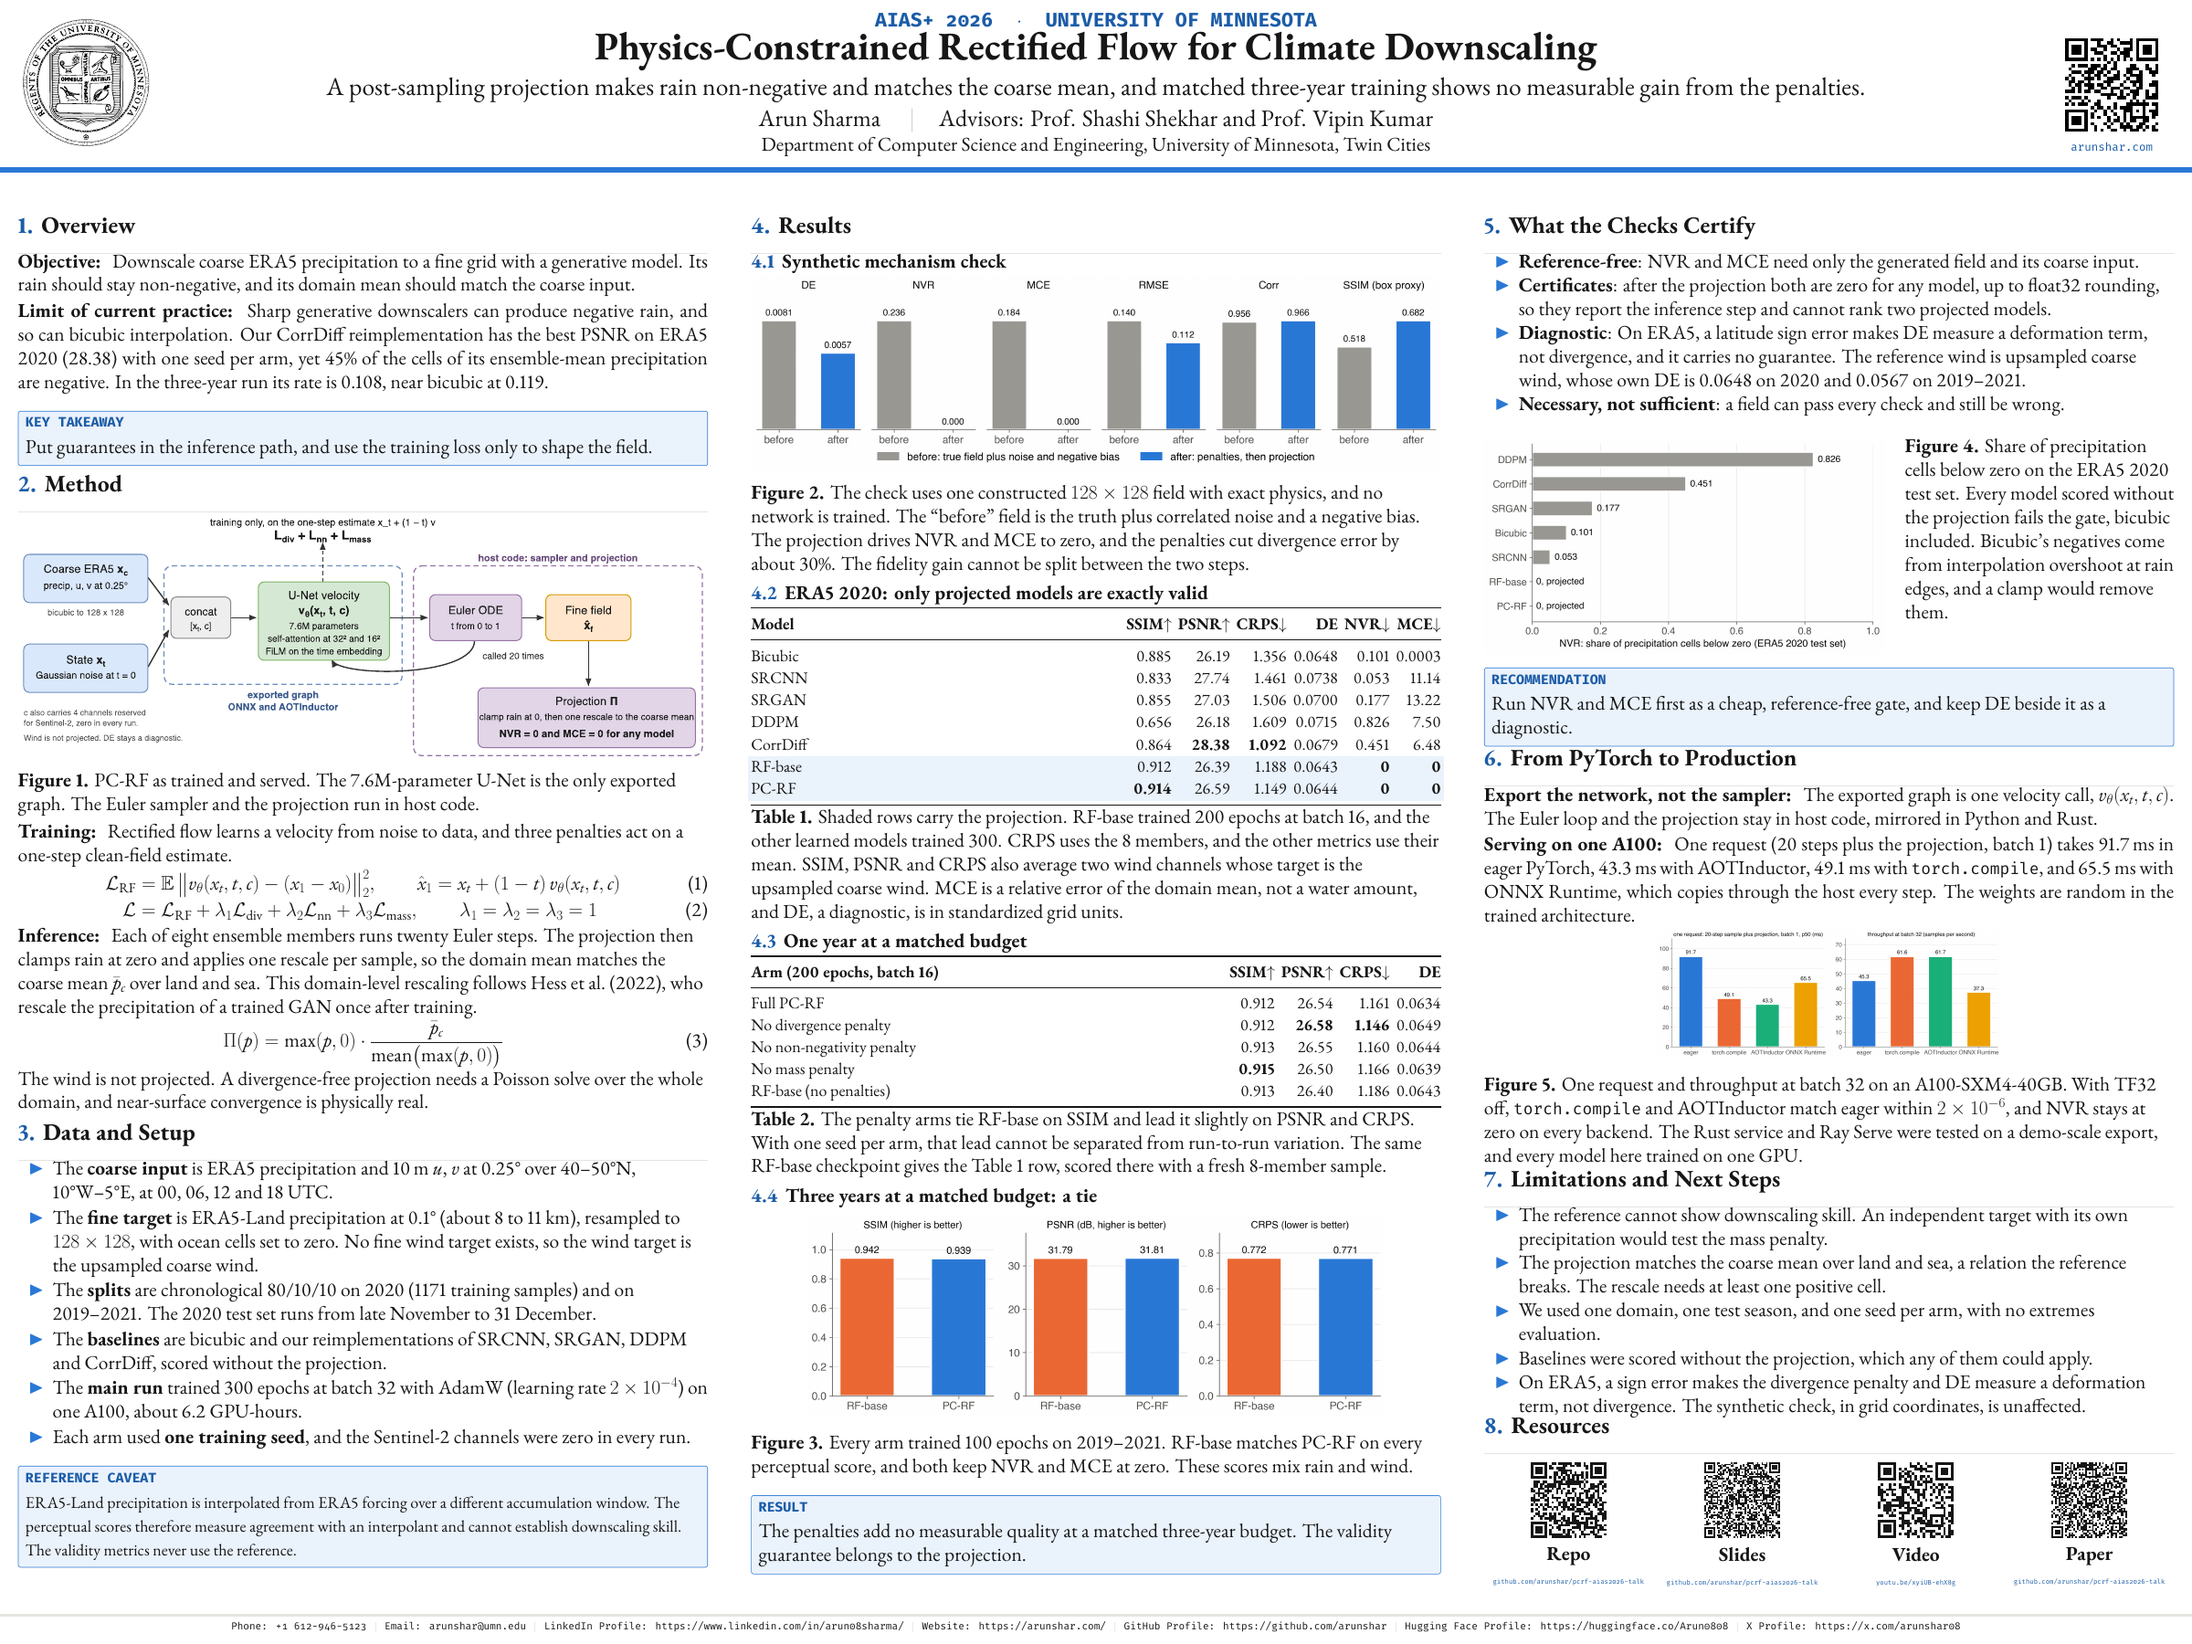
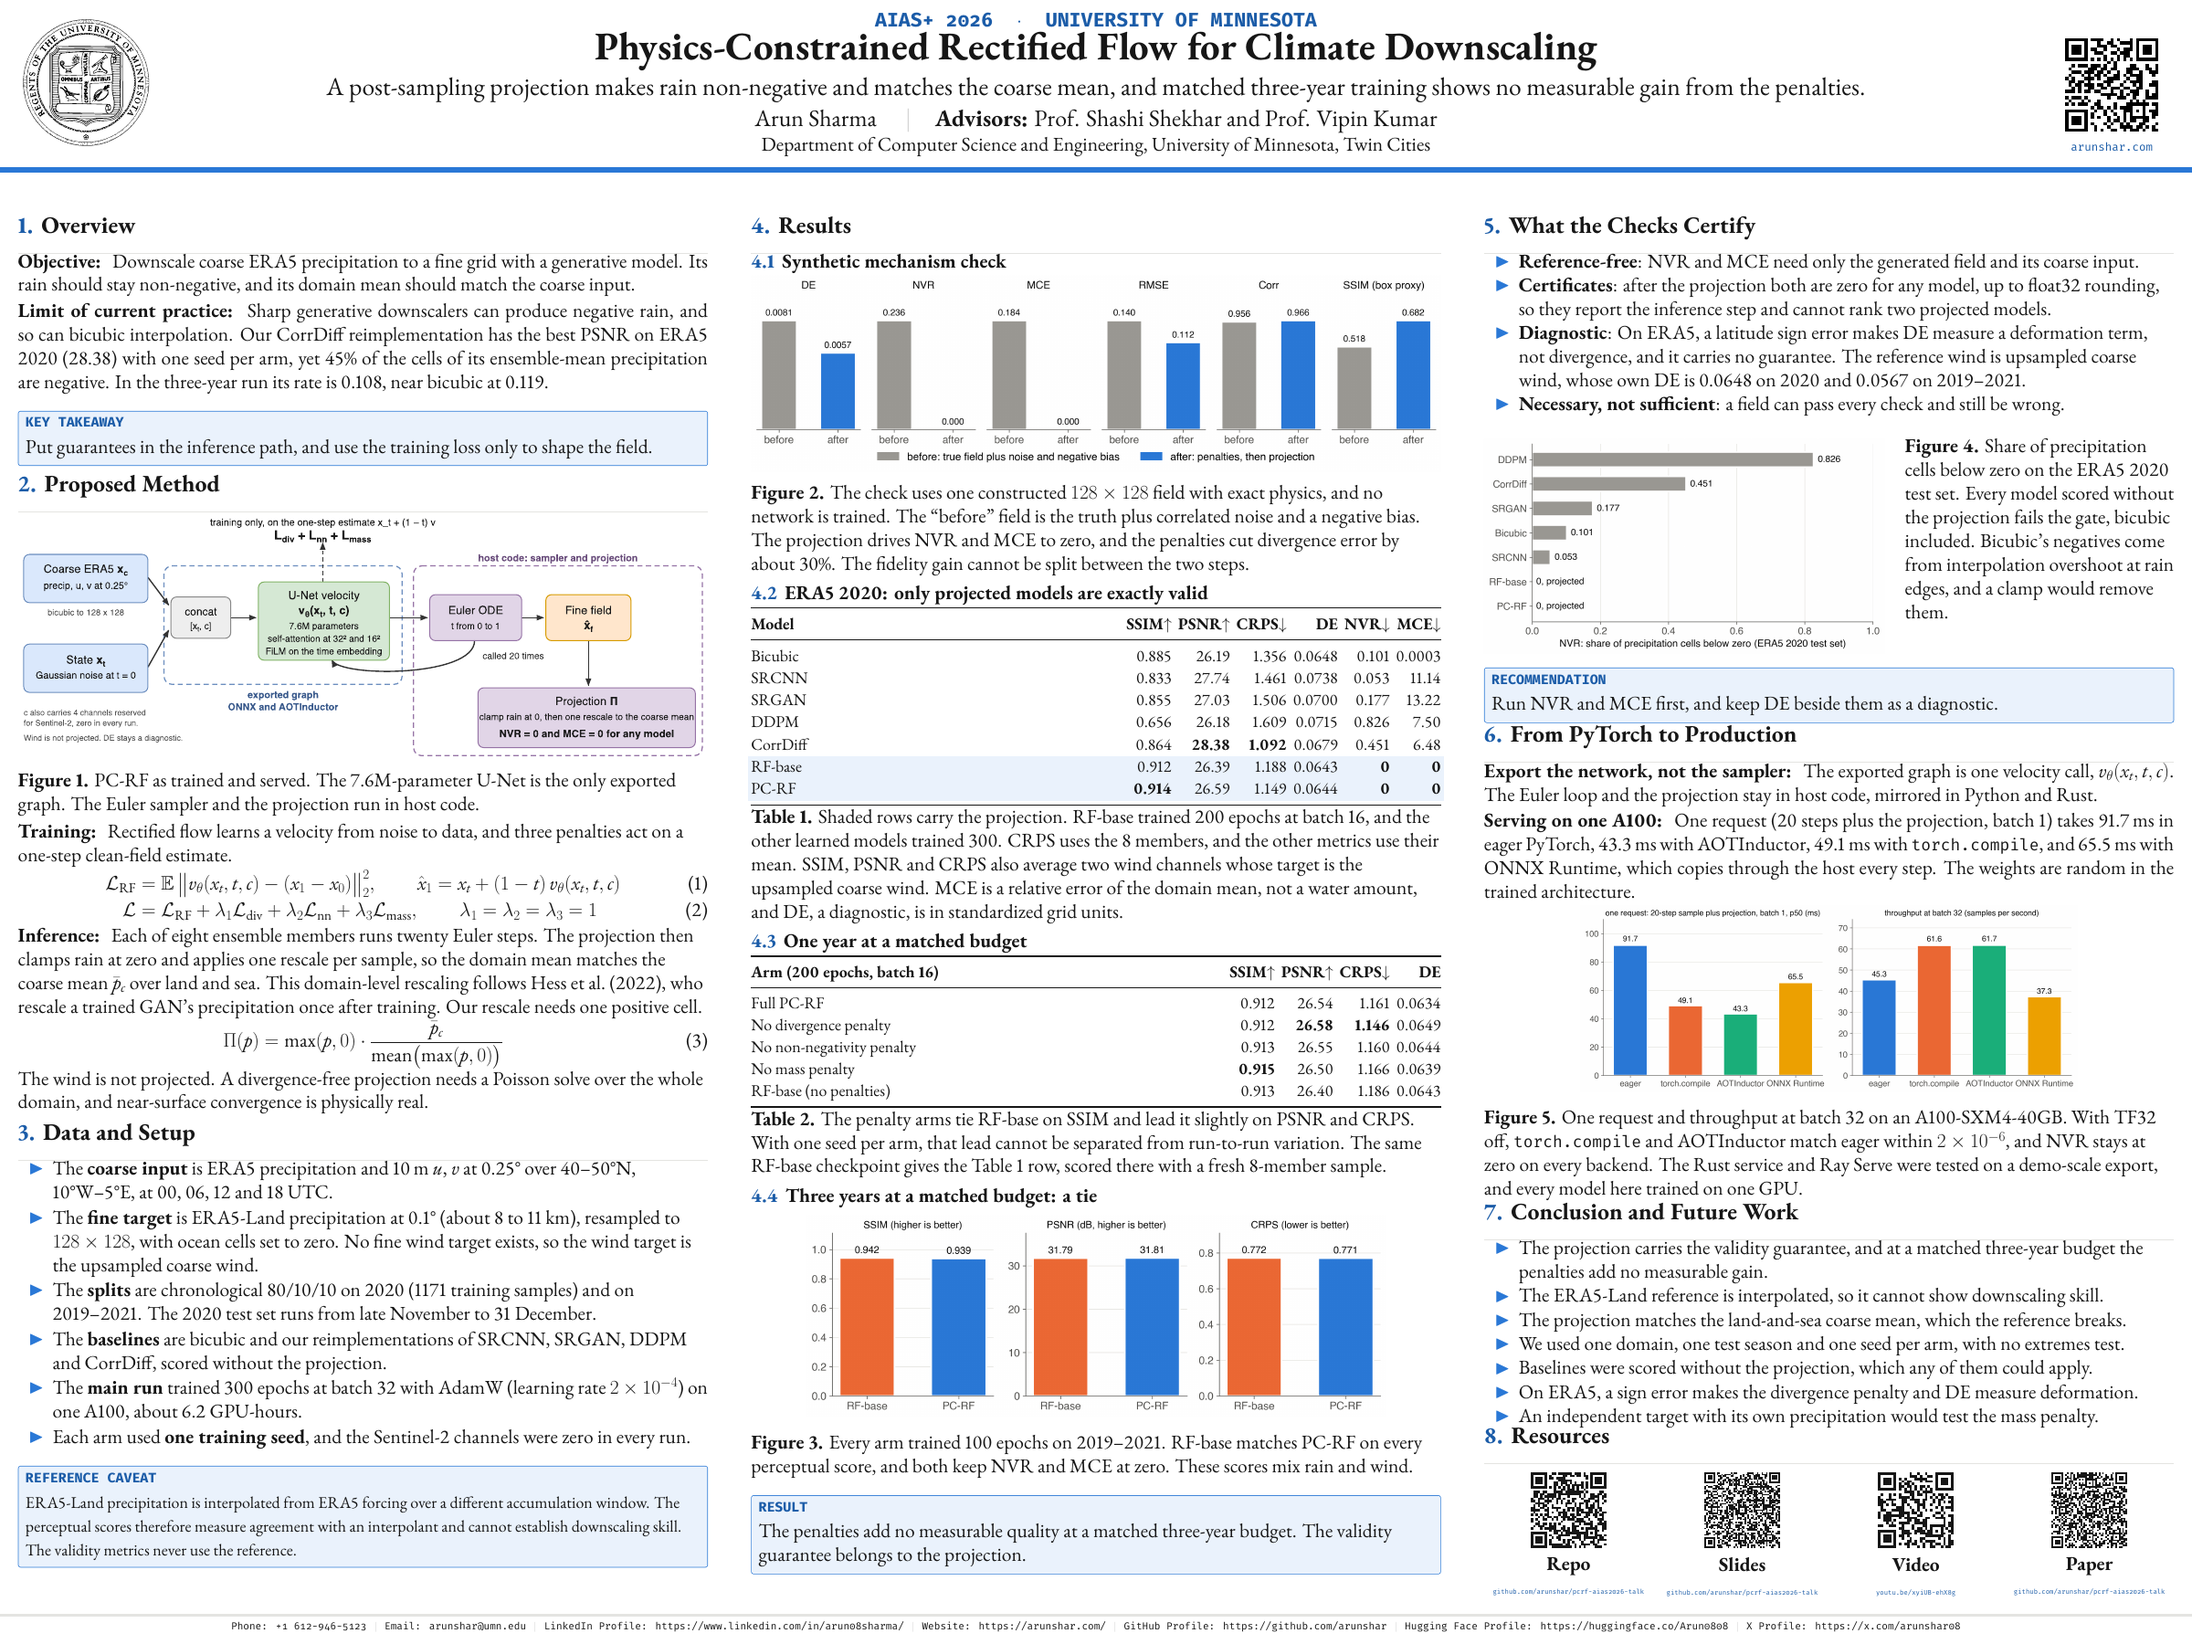
Update the poster: new section headings, shorter conclusion and recommendation, larger Figure 5
Section 2 is now Proposed Method and Section 7 is Conclusion and Future Work. The advisors label is bold. The verification note lists the new column measurements.

diff --git a/poster/pcrf_poster.tex b/poster/pcrf_poster.tex
@@ -130,7 +130,7 @@
         \vspace{0.32cm}
         {\color{ncink}\large Arun Sharma
           \quad\textcolor{nclinetwo}{$|$}\quad
-          Advisors: Prof. Shashi Shekhar and Prof. Vipin Kumar}\par
+          \textbf{Advisors:} Prof. Shashi Shekhar and Prof. Vipin Kumar}\par
         \vspace{0.16cm}
         {\color{ncmuted}\normalsize Department of Computer Science and Engineering,
           University of Minnesota, Twin Cities}\par
@@ -213,7 +213,7 @@
     \end{takeaway}
   \end{possection}
 
-  \begin{possection}{2.}{Method}
+  \begin{possection}{2.}{Proposed Method}
     \includegraphics[width=\linewidth]{architecture_corrected_outlined.pdf}
     \figcap{Figure 1.}{PC-RF as trained and served. The 7.6M-parameter U-Net is the
     only exported graph. The Euler sampler and the projection run in host code.}
@@ -232,7 +232,7 @@
     \endgroup
     \heil{Inference} Each of eight ensemble members runs twenty Euler steps. The
     projection then clamps rain at zero and applies one rescale per sample, so the
-    domain mean matches the coarse mean $\bar{p}_c$ over land and sea. This domain-level rescaling follows Hess et al.\ (2022), who rescale the precipitation of a trained GAN once after training.
+    domain mean matches the coarse mean $\bar{p}_c$ over land and sea. This domain-level rescaling follows Hess et al.\ (2022), who rescale a trained GAN's precipitation once after training. Our rescale needs one positive cell.
     \begingroup
     \setlength{\abovedisplayskip}{0.10cm}\setlength{\belowdisplayskip}{0.10cm}
     \begin{equation}
@@ -385,8 +385,7 @@
     \par\vspace{0.14cm}
     \begin{takeaway}
       \tklabel{Recommendation}
-      {\color{ncink}\normalsize Run NVR and MCE first as a cheap, reference-free gate,
-      and keep DE beside it as a diagnostic.}
+      {\color{ncink}\normalsize Run NVR and MCE first, and keep DE beside them as a diagnostic.}
     \end{takeaway}
   \end{possection}
 
@@ -401,7 +400,7 @@
     \apicode{torch.compile}, and 65.5\,ms with ONNX Runtime, which copies through the
     host every step. The weights are random in the trained architecture.
     \par\vspace{0.06cm}
-    \begin{center}\includegraphics[width=0.50\linewidth]{serving_bench.png}\end{center}
+    \begin{center}\includegraphics[width=0.72\linewidth]{serving_bench.png}\end{center}
     \figcap{Figure 5.}{One request and throughput at batch 32 on an A100-SXM4-40GB.
     With TF32 off, \apicode{torch.compile} and AOTInductor match eager within
     $2\times10^{-6}$, and NVR stays at zero on every backend. The Rust service and Ray
@@ -409,18 +408,16 @@
   \end{possection}
 
   \vspace{-0.40cm}
-  \begin{possection}{7.}{Limitations and Next Steps}
+  \begin{possection}{7.}{Conclusion and Future Work}
     \begin{itemize}\setlength{\itemsep}{0.02cm}
-      \item The reference cannot show downscaling skill. An independent target with its
-            own precipitation would test the mass penalty.
-      \item The projection matches the coarse mean over land and sea, a relation the
-            reference breaks. The rescale needs at least one positive cell.
-      \item We used one domain, one test season, and one seed per arm, with no
-            extremes evaluation.
+      \item The projection carries the validity guarantee, and at a matched three-year
+            budget the penalties add no measurable gain.
+      \item The ERA5-Land reference is interpolated, so it cannot show downscaling skill.
+      \item The projection matches the land-and-sea coarse mean, which the reference breaks.
+      \item We used one domain, one test season and one seed per arm, with no extremes test.
       \item Baselines were scored without the projection, which any of them could apply.
-      \item On ERA5, a sign error makes the divergence penalty and DE measure a
-            deformation term, not divergence. The synthetic check, in grid
-            coordinates, is unaffected.
+      \item On ERA5, a sign error makes the divergence penalty and DE measure deformation.
+      \item An independent target with its own precipitation would test the mass penalty.
     \end{itemize}
   \end{possection}
 

diff --git a/poster/VERIFICATION.md b/poster/VERIFICATION.md
@@ -1,6 +1,6 @@
 # Verification note: PC-RF poster for AIAS+ 2026
 
-The poster is `pcrf_poster_aias2026.pdf`, 48 by 36 inches, landscape, built from `pcrf_poster.tex` with XeLaTeX on 2026-10-22. SHA-256 prefix of the PDF: `52e5d366a0a5eef5`. `preview.png` is a 2400 px render of the same file.
+The poster is `pcrf_poster_aias2026.pdf`, 48 by 36 inches, landscape, built from `pcrf_poster.tex` with XeLaTeX on 2026-10-22. SHA-256 prefix of the PDF: `0226812a02b8b957`. `preview.png` is a 2400 px render of the same file.
 
 ## Build command
 
@@ -23,7 +23,7 @@ The fonts are EB Garamond and Fira Mono, as in the earlier posters.
 | Fonts | 11 embedded, none of Type 3 |
 | Overfull and underfull boxes | 0 and 0 |
 | Poster numbers | Every number appears in the 28 September 2026 paper draft or in the numbers ledger of the project |
-| Layout | The three columns end 1.15, 1.01 and 0.59 in above the footer line |
+| Layout | The three columns end 1.15, 1.01 and 0.37 in above the footer line |
 
 ## QR codes
 
